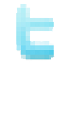
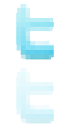
opacity

Changed region(s): [[0.2286, 0.625, 0.7714, 0.9688]]

diff --git a/style.css b/style.css
@@ -42,7 +42,7 @@ body {
     width: 70px;
     height: 64px;
     display: block;
-    top: 449;
+    top: 400;
     left: 73;
 }
 
@@ -77,11 +77,11 @@ body {
 }
 
 #wordpress {
-    background: url(static/img/wordpress.png) no-repeat 0 -120;
+    background: url(static/img/wordpress.png) no-repeat 0 -70;
     width: 70px;
-    height: 120px;
+    height: 70px;
     display: block;
-    top: 625;
+    top: 576;
     left: 419;
 }
 
